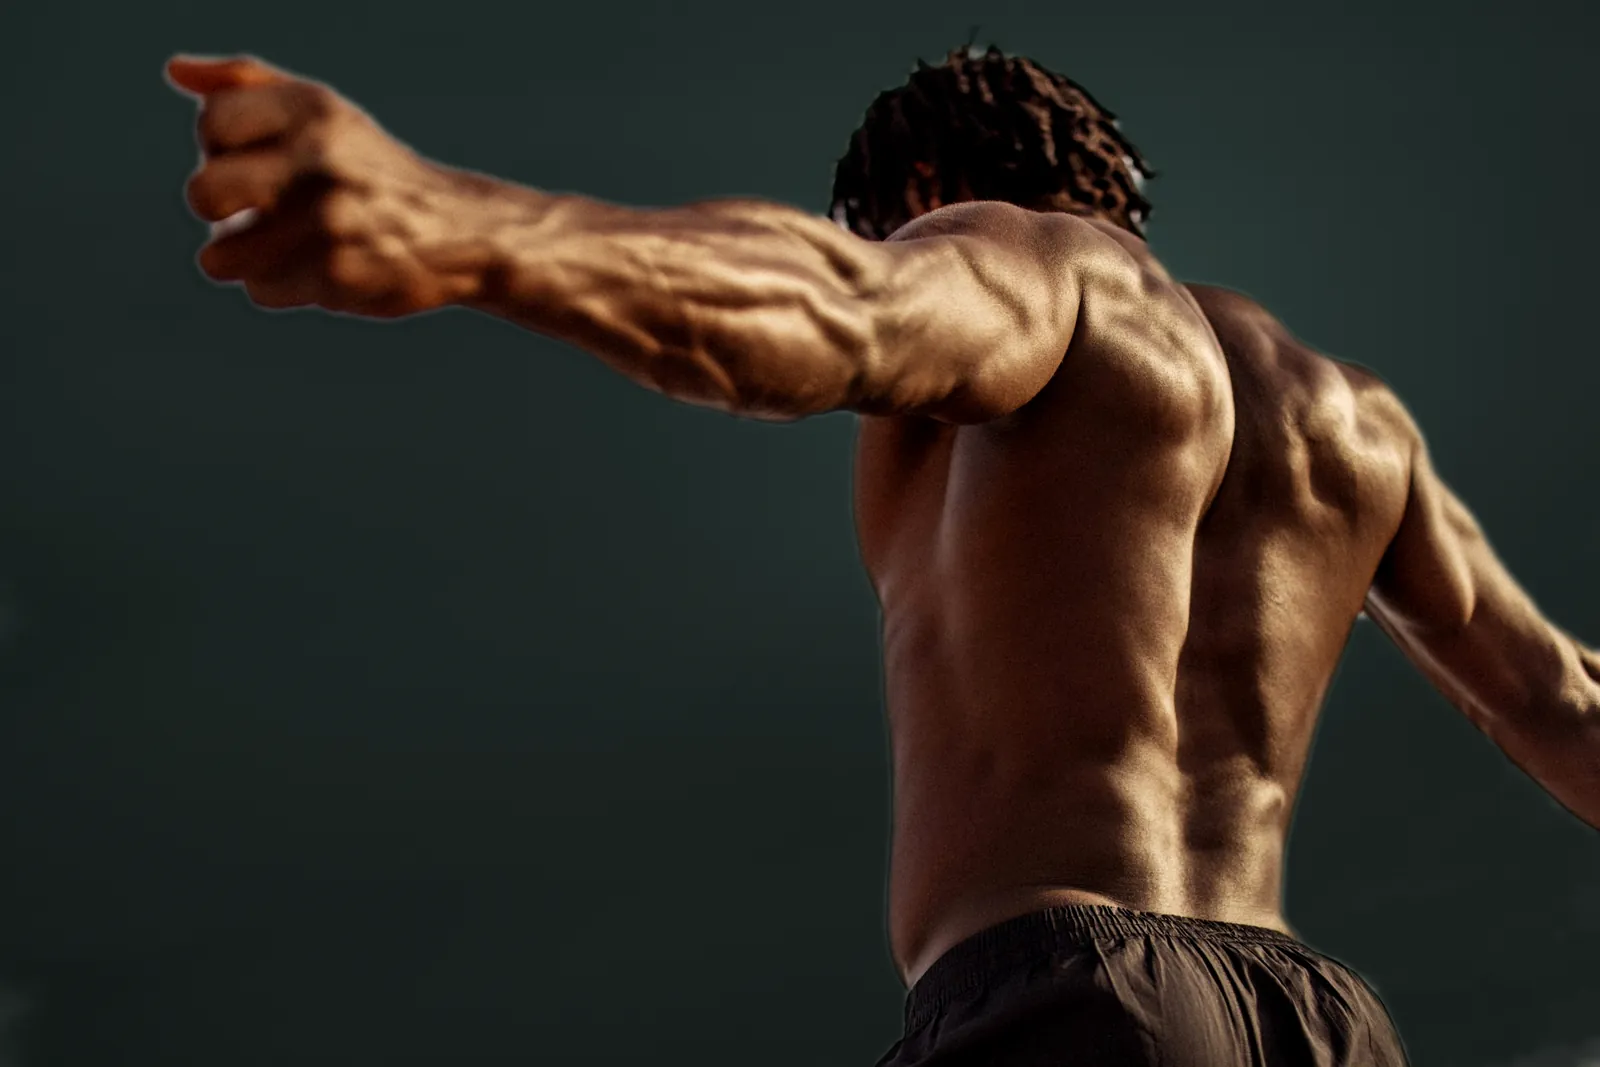
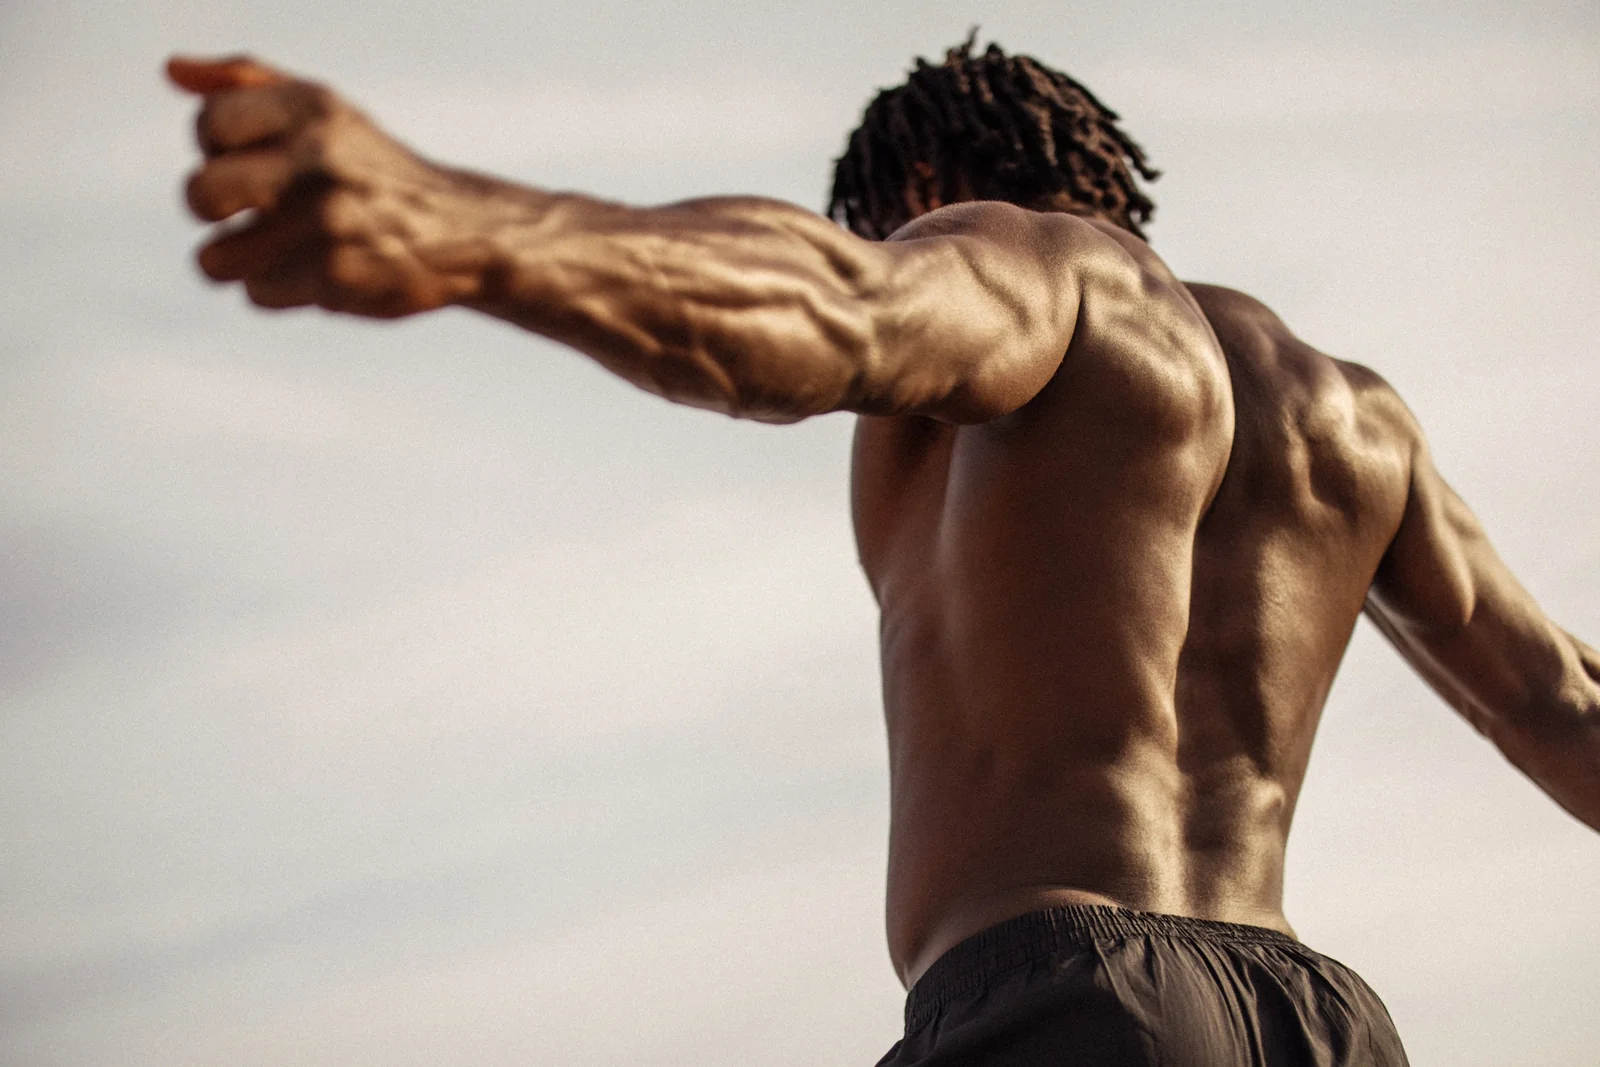
The top photo exactly as supplied
- The man's-back photo is no longer recolored or shaded: it sits under the header
  as it was taken, sky and all, with the headline in dark ink on its sky
- Wide screens show the photo's full width (short screens trim only the bottom);
  phones and tall screens show the whole photo with the words on dark below it
- The header and the Signal card are darker smoked glass so they read over the
  light photo; the card shows only where it clears the head (1280px and up)
- The share picture uses the same unedited photo

Claude-Session: https://claude.ai/code/session_013XqrqM75GKGdxZiKqfyMU4

diff --git a/styles.css b/styles.css
@@ -1,7 +1,7 @@
 /* Miracle Health (miraclehealth.us)
-   AlgoRx's look: deep green-black and near-white paper, one lime accent, dark photography
-   with soft shades, frosted glass cards, Inter headlines, Plus Jakarta Sans text and
-   IBM Plex Mono labels. No scripts. */
+   AlgoRx's look: deep green-black and near-white paper, one lime accent, photography,
+   frosted glass cards, Inter headlines, Plus Jakarta Sans text and IBM Plex Mono labels.
+   The photo at the top is shown exactly as supplied. No scripts. */
 
 @font-face{font-family:'Inter';src:url('fonts/inter.woff2') format('woff2');font-weight:100 900;font-display:swap}
 @font-face{font-family:'Plus Jakarta Sans';src:url('fonts/jakarta.woff2') format('woff2');font-weight:200 800;font-display:swap}
@@ -64,7 +64,7 @@ ul,ol{list-style:none;margin:0;padding:0}
 .bar span{display:block;height:100%;border-radius:4px;background:var(--scale)}
 
 /* ---------------------------------------------------------------- header */
-.top{position:fixed;inset:0 0 auto;z-index:40;height:var(--top-h);color:var(--on-ink);background:rgba(12,20,19,.5);-webkit-backdrop-filter:saturate(1.2) blur(16px);backdrop-filter:saturate(1.2) blur(16px);border-bottom:1px solid rgba(255,255,255,.08);--focus:var(--lime)}
+.top{position:fixed;inset:0 0 auto;z-index:40;height:var(--top-h);color:var(--on-ink);background:rgba(12,20,19,.9);-webkit-backdrop-filter:saturate(1.2) blur(16px);backdrop-filter:saturate(1.2) blur(16px);border-bottom:1px solid rgba(255,255,255,.08);--focus:var(--lime)}
 .top-in{display:flex;align-items:center;gap:30px;height:100%}
 .logo{display:block;flex:none;border-radius:6px}
 .logo img{height:28px;width:auto}
@@ -75,18 +75,23 @@ ul,ol{list-style:none;margin:0;padding:0}
 .top-link:hover{color:var(--lime)}
 .menu-btn,.menu-panel{display:none}
 
-/* ---------------------------------------------------------------- hero: a photo, shaded, text at the bottom */
-.hero{position:relative;isolation:isolate;overflow:hidden;display:flex;align-items:flex-end;min-height:max(640px,min(100svh,980px));background:var(--darker);color:var(--on-ink);--focus:var(--lime)}
-.hero-photo{position:absolute;inset:0;z-index:-2;width:100%;height:100%;object-fit:cover;object-position:62% 30%}
-.hero-shade{position:absolute;inset:0;z-index:-1;background:
-  linear-gradient(to top,rgba(8,12,11,.86) 0%,rgba(8,12,11,.5) 30%,rgba(8,12,11,.1) 60%,rgba(8,12,11,0) 84%),
-  linear-gradient(90deg,rgba(8,12,11,.6) 0%,rgba(8,12,11,.18) 45%,rgba(8,12,11,0) 70%)}
-.hero-in{padding-top:calc(var(--top-h) + 48px);padding-bottom:84px}
-.hero-copy{max-width:700px}
-.hero h1{margin-top:20px;font-size:clamp(42px,6.3vw,88px);line-height:.98;letter-spacing:-.04em}
+/* ---------------------------------------------------------------- hero: the photo as it is, the words on its sky
+   The photo starts under the header and is never recoloured or shaded. Wide screens show
+   its whole width (only the bottom is trimmed on short screens), with the words on the sky
+   under the arm. Phones, and tall screens, show the whole photo with the words below it. */
+.hero{position:relative;isolation:isolate;overflow:hidden;display:flex;align-items:flex-end;min-height:max(431px + 26vw,min(100svh,var(--top-h) + 66.67vw));padding-top:var(--top-h);background:#D5D1CC;color:var(--ink);--focus:var(--ink)}
+.hero-photo{position:absolute;top:var(--top-h);left:0;z-index:-1;width:100%;height:calc(100% - var(--top-h));object-fit:cover;object-position:50% 0}
+.hero-in{padding-top:48px;padding-bottom:64px}
+.hero .kick{color:var(--ink)}
+.hero .live i{outline:1px solid rgba(18,30,29,.6)}
+.hero h1{margin-top:18px;font-size:clamp(44px,4.45vw,64px);line-height:1;letter-spacing:-.04em}
 .lede{margin-top:22px;max-width:50ch;font-size:18px;line-height:1.6;color:var(--on-ink-2)}
-.cta{display:flex;flex-wrap:wrap;gap:12px;margin-top:34px}
-.hero-card{position:absolute;right:max(40px,calc((100vw - 1320px)/2 + 40px));top:calc(var(--top-h) + 36px);width:330px}
+.hero .lede{max-width:min(470px,38vw);font-size:17px;color:#2B3534}
+.cta{display:flex;flex-wrap:wrap;gap:12px;margin-top:30px}
+.btn.line{border-color:rgba(18,30,29,.5);color:var(--ink)}
+.btn.line:hover{background:var(--ink);border-color:var(--ink);color:var(--on-ink)}
+.hero-card{position:absolute;right:max(40px,4vw);top:calc(var(--top-h) + 32px);width:320px}
+.glass.smoke{border-color:rgba(255,255,255,.14);background:rgba(12,20,19,.76);-webkit-backdrop-filter:saturate(1.1) blur(14px);backdrop-filter:saturate(1.1) blur(14px)}
 .gc-body{display:flex;align-items:center;gap:14px;margin-top:14px}
 .gc-body p{font-size:14px;line-height:1.45;color:var(--on-ink-2)}
 .hero-card .bar{margin-top:16px}
@@ -214,8 +219,23 @@ ul,ol{list-style:none;margin:0;padding:0}
 .foot .copy{font:500 12px/1.4 var(--mono);letter-spacing:.06em}
 
 /* ---------------------------------------------------------------- smaller screens */
+@media (max-width:1279px){
+  .hero-card{display:none}
+}
 @media (max-width:1100px){
   .rules{grid-template-columns:repeat(2,minmax(0,1fr))}
+}
+/* Phones and tall screens: the whole photo, then the words on the dark below it */
+@media (max-width:900px),(max-aspect-ratio:5/4){
+  .hero{display:block;min-height:0;background:radial-gradient(80% 60% at 0% 100%,rgba(216,255,61,.08),rgba(216,255,61,0) 62%),var(--darker);color:var(--on-ink);--focus:var(--lime)}
+  .hero-photo{position:static;height:auto}
+  .hero .hero-in{padding-top:36px;padding-bottom:56px}
+  .hero .kick{color:var(--lime)}
+  .hero .live i{outline:0}
+  .hero h1{font-size:clamp(40px,7vw,64px)}
+  .hero .lede{max-width:50ch;color:var(--on-ink-2)}
+  .hero .btn.line{border-color:rgba(255,255,255,.3);color:var(--on-ink)}
+  .hero .btn.line:hover{background:transparent;border-color:var(--lime);color:var(--lime)}
   .hero-card{display:none}
 }
 @media (max-width:900px){
@@ -239,10 +259,6 @@ ul,ol{list-style:none;margin:0;padding:0}
   .menu-close span{position:relative;width:20px;height:20px}
   .menu-close span::before,.menu-close span::after{content:'';position:absolute;top:9px;left:0;width:20px;height:2px;border-radius:2px;background:var(--on-ink);transform:rotate(45deg)}
   .menu-close span::after{transform:rotate(-45deg)}
-  .hero{min-height:max(600px,100svh)}
-  .hero-photo{object-position:66% 30%}
-  .hero-shade{background:linear-gradient(to top,rgba(8,12,11,.94) 0%,rgba(8,12,11,.62) 34%,rgba(8,12,11,.14) 62%,rgba(8,12,11,0) 82%)}
-  .hero-in{padding-bottom:56px}
   .band{padding:80px 0}
   .sec-note{text-align:left;max-width:none}
   .steps,.signal-grid,.join-cards{grid-template-columns:1fr}

diff --git a/index.html b/index.html
@@ -53,19 +53,18 @@
 <main id="main">
   <section class="hero" aria-labelledby="hero-h">
     <img class="hero-photo" src="img/hero-1600.webp" srcset="img/hero-960.webp 960w, img/hero-1600.webp 1600w, img/hero-2400.webp 2400w" sizes="100vw" alt="" width="2400" height="1601" fetchpriority="high">
-    <div class="hero-shade" aria-hidden="true"></div>
     <div class="wrap hero-in">
       <div class="hero-copy">
         <p class="kick lime live"><i aria-hidden="true"></i>Now open · The Community Signal</p>
-        <h1 id="hero-h">Built by the people who take it.</h1>
+        <h1 id="hero-h">Built by the people<br> who take it.</h1>
         <p class="lede">Real experiences with peptides, from the adults who took them, read into one live number per compound.</p>
         <div class="cta">
           <a class="btn lime" href="https://community.miraclehealth.us/">Join the community</a>
-          <a class="btn glass" href="#how">How it works</a>
+          <a class="btn line" href="#how">How it works</a>
         </div>
       </div>
     </div>
-    <aside class="glass hero-card" aria-label="The Community Signal">
+    <aside class="glass smoke hero-card" aria-label="The Community Signal">
       <div class="gc-head"><span>Community Signal</span><span class="dim">0 – 100</span></div>
       <div class="gc-body">
         <svg class="sig" viewBox="0 0 64 64" width="54" height="54" aria-hidden="true">

diff --git a/README.md b/README.md
@@ -4,7 +4,8 @@ The front page of Miracle Health, at https://miraclehealth.us. The community its
 lives at https://community.miraclehealth.us (the `miracle-health-community` repository).
 
 One static page with no scripts, no tracking and no cookies, served by GitHub Pages
-from the `main` branch. The look: a full-width photo under a dark see-through header,
+from the `main` branch. The look: a full-width photo (shown exactly as supplied, with
+the headline on its sky) under a dark see-through header,
 paper-white sections between deep green-black bands, lime accents, frosted "glass"
 cards, Inter headlines, Plus Jakarta Sans text, IBM Plex Mono labels, and Sig, the
 Community Signal in person. The colors stay the same whatever the visitor's device is
